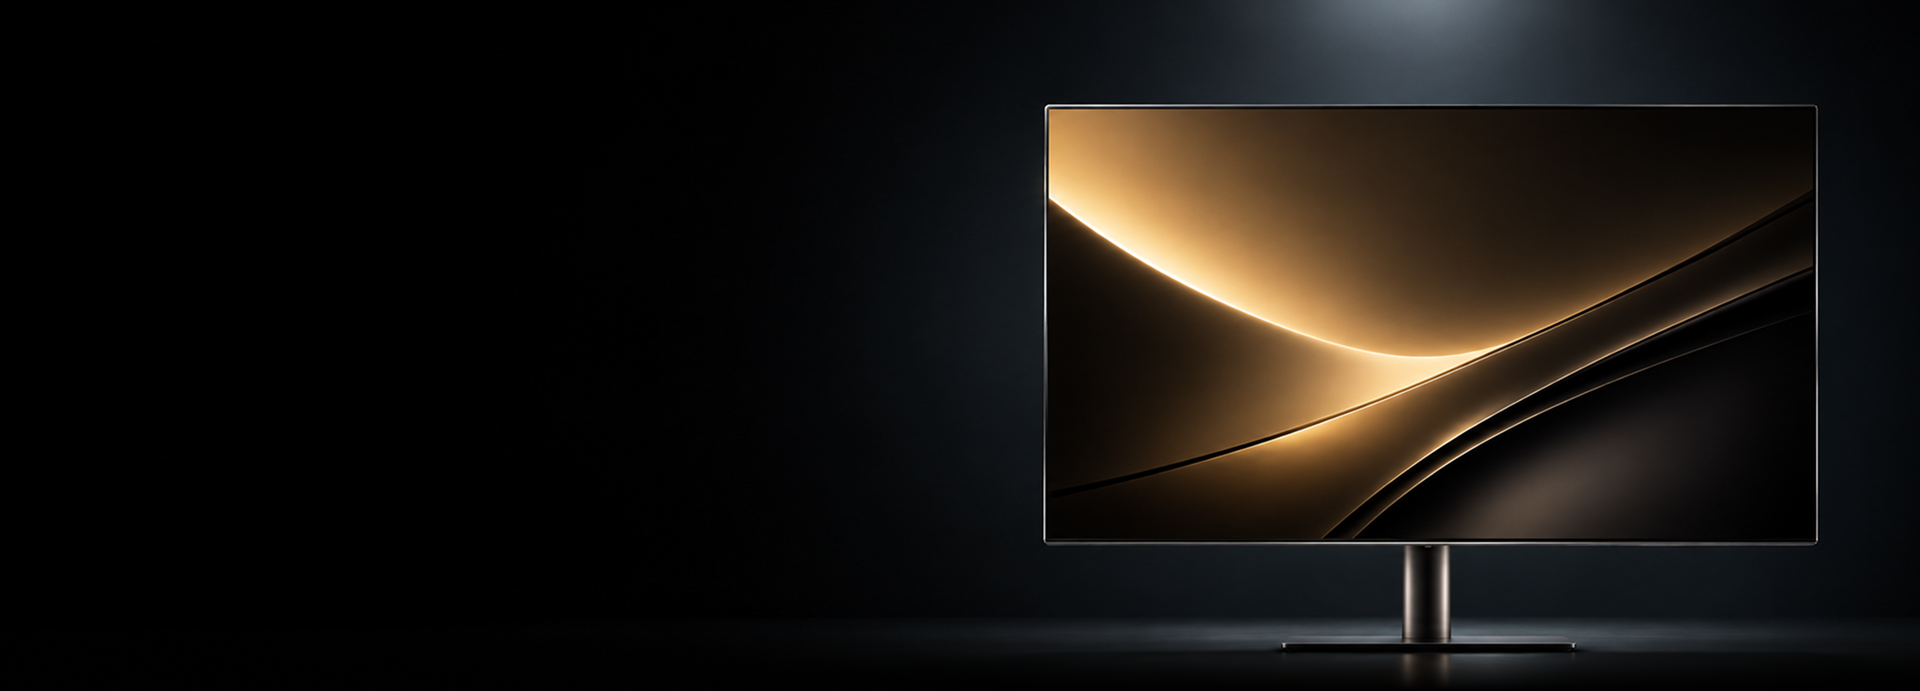
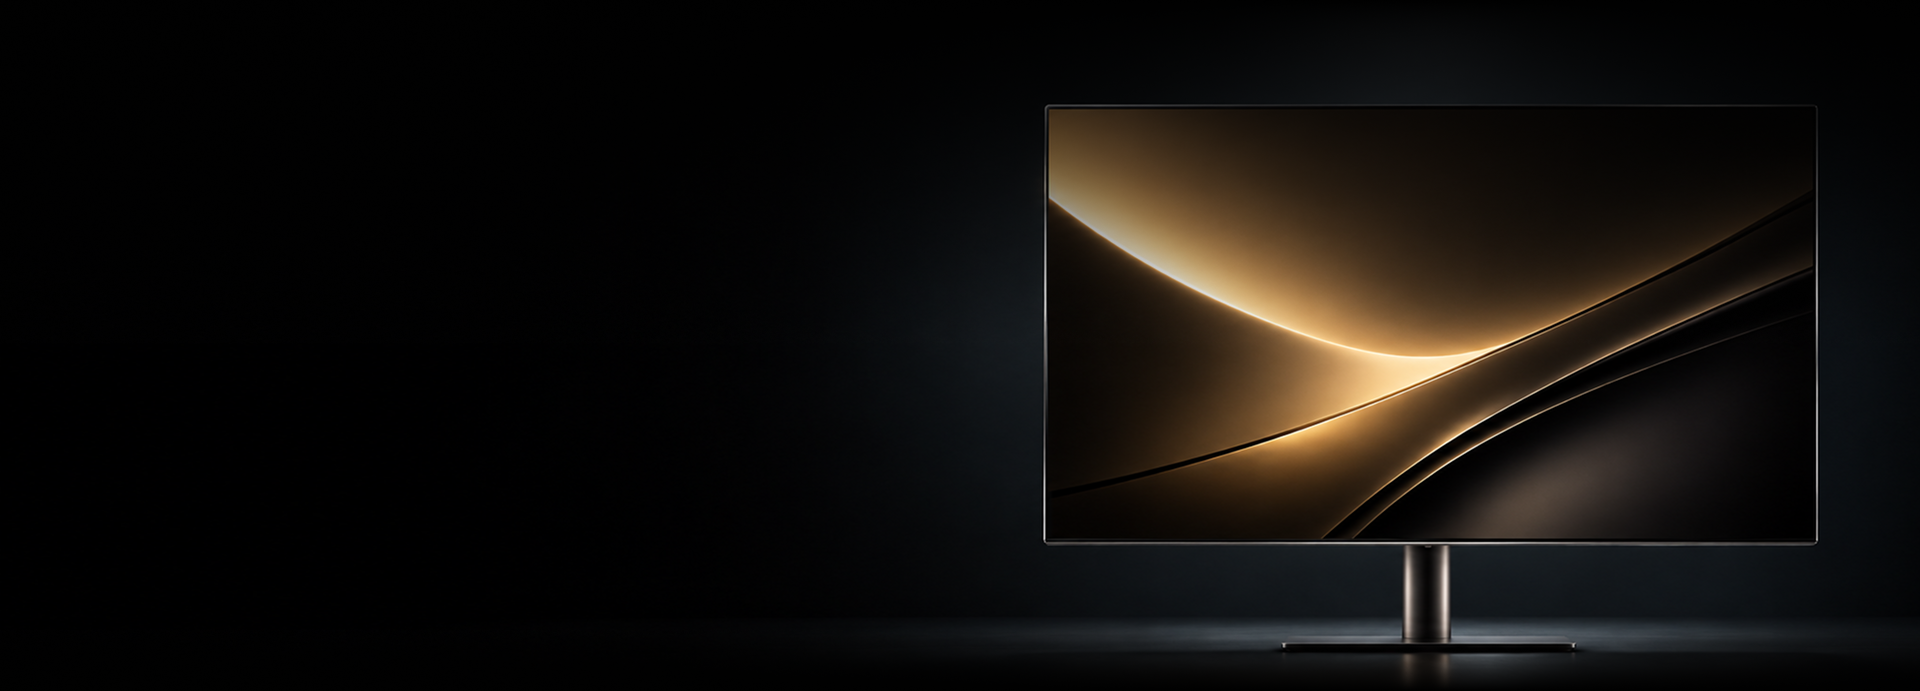
fix: 메인 배너 이미지 교체 및 PC 헤더 배경 통일

Changed region(s): [[0.5312, 0.0, 0.875, 0.4559]]

diff --git a/src/components/layout/header-qa.css b/src/components/layout/header-qa.css
@@ -3,6 +3,10 @@
   .app-shell > header.site-header .site-header__utility { background: var(--color-white); border-color: var(--color-gray-300); }
   .app-shell > header.site-header .site-header__primary { border-color: var(--color-gray-300); }
   .app-shell > header.site-header .utility-menu > * + *::before { background: var(--color-gray-300); }
+  .app-shell--home > header.site-header--main:not(.site-header--scrolled):not(.site-header--menu-open) { background: transparent; color: var(--color-white); }
+  .app-shell--home > header.site-header--main:not(.site-header--scrolled):not(.site-header--menu-open) .site-header__utility { background: var(--color-white-alpha-10); border-color: transparent; }
+  .app-shell--home > header.site-header--main:not(.site-header--scrolled):not(.site-header--menu-open) .site-header__primary { border-color: var(--color-white-alpha-30); }
+  .app-shell--home > header.site-header--main:not(.site-header--scrolled):not(.site-header--menu-open) .utility-menu > * + *::before { background: var(--color-white-alpha-50); }
 }
 @media (max-width: 1024px) {
   .app-shell > header.site-header .site-header__utility { display: none; }

diff --git a/src/components/layout/HeaderControl.tsx b/src/components/layout/HeaderControl.tsx
@@ -86,7 +86,7 @@ export function Header({ cartCount, onCartClick, state = 'sub' }: { cartCount?: 
       <div className="site-header__primary">
         <div className="site-header__inner">
           <Link className="site-logo" to={restricted ? '/mypage/rcpc' : '/'}>
-            <picture><source media="(min-width: 768px)" srcSet={logoPrimary}/><img alt="ComViewers" src={isMain && !scrolled && !mobileOpen ? logoWhite : logoPrimary} /></picture>
+            <img alt="ComViewers" src={isMain && !scrolled && !mobileOpen ? logoWhite : logoPrimary} />
           </Link>
           <nav aria-label="주 메뉴" className="main-menu">
             {visibleMenuItems.map((item) => <Link key={item.id} to={item.href}><MenuLabel item={item} /></Link>)}
